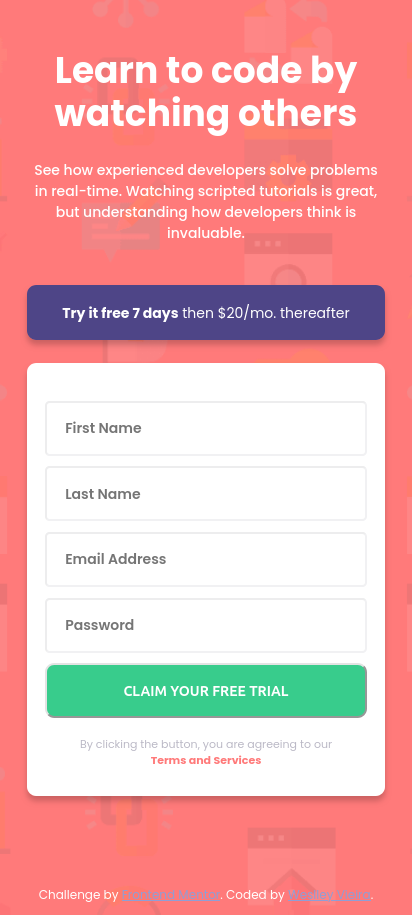
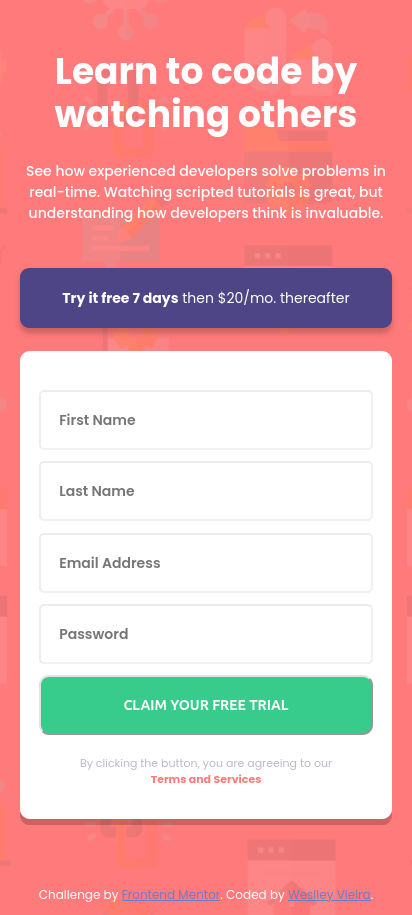
-fix responsive

diff --git a/styles.css b/styles.css
@@ -1,3 +1,8 @@
+@font-face {
+  font-family: "Poppins", "Fira Code";
+  src: url("./fonts/fa-solid-900.woff2") format("woff2");
+}
+
 body {
   font-family: "Poppins", "Fira Code", sans-serif;
   background-image: url("./images/bg-intro-desktop.png");
@@ -10,8 +15,7 @@ body {
   align-items: center;
   height: 100vh;
   margin: 0;
-  padding-left: 30vh;
-  padding-right: 30vh;
+  padding: 0;
   font-size: 20px;
 }
 
@@ -23,20 +27,20 @@ main {
 
 .content {
   color: white;
-  padding-right: 5vh;
-  width: 55vh;
+  padding-right: 5%;
+  width: 40%;
   font-size: 25px;
   line-height: 1.2;
 }
 
 .content p {
-  font-size: 15px;
+  font-size: 16px;
   line-height: 1.5;
   font-weight: 500;
 }
 
 .form {
-  width: 60vh;
+  width: 40%;
 }
 
 .form .ad {
@@ -45,7 +49,7 @@ main {
   display: flex;
   justify-content: center;
   align-items: center;
-  height: 6vh;
+  height: 60px;
   border-radius: 1vh;
   box-shadow: 0 5px 5px rgba(0, 0, 0, 0.2);
   color: white;
@@ -54,28 +58,28 @@ main {
 
 .form form {
   background-color: white;
-  height: 45vh;
-  padding: 6% 0 0 0;
+  height: 45%;
+  padding: 5% 0 0 0;
   display: flex;
   flex-direction: column;
   justify-content: center;
   align-items: center;
-  border-radius: 1vh;
-  box-shadow: 0 5px 5px rgba(0, 0, 0, 0.2);
+  border-radius: 10px;
+  box-shadow: 0 6px 0 rgba(0, 0, 0, 0.2);
   transition: height 0.3s ease;
 }
 
 .form form.invalid {
-  height: 55vh;
-  padding: 2% 0;
+  height: 55%;
+  padding: 5% 0 1%;
 }
 
 .form input {
   font-family: "Poppins", "Fira Code", sans-serif;
   width: 85%;
-  height: 6vh;
+  height: 60px;
   padding-left: 5%;
-  border-radius: 0.5vh;
+  border-radius: 5px;
   border-color: hsl(249, 10%, 50%, 0.1);
   font-size: 14px;
   font-weight: 600;
@@ -91,7 +95,7 @@ main {
 
 .form .error-message {
   align-self: end;
-  margin: 0.5vh 5vh 1.5vh 0;
+  margin: 5px 50px 15px 0;
   color: hsl(0, 100%, 74%);
   font-size: 10px;
   font-style: italic;
@@ -108,8 +112,8 @@ main {
 
 .form button {
   width: 85%;
-  height: 6vh;
-  border-radius: 1vh;
+  height: 60px;
+  border-radius: 10px;
   font-size: 14px;
   color: white;
   background-color: hsl(154, 59%, 51%);
@@ -121,7 +125,7 @@ main {
 }
 
 .form p {
-  margin-top: 2vh;
+  margin-top: 20px;
   font-size: 11px;
   color: hsl(249, 10%, 75%);
 }
@@ -138,31 +142,32 @@ main {
 
 footer {
   position: fixed;
-  bottom: 0;
+  bottom: 10px;
   width: 100%;
 }
 
 .attribution {
-  font-size: 14px;
+  font-size: 12px;
   text-align: center;
   color: white;
 }
 
 .attribution a {
-  color: hsl(228, 45%, 70%);
+  color: hsl(228, 45%, 60%);
 }
 
 .attribution a:hover {
-  color: hsl(228, 45%, 50%);
+  color: hsl(228, 45%, 44%);
+  text-decoration: underline;
 }
 
-@media (max-width: 768px) {
+@media (max-width: 954px) or (max-height: 915px) {
   body {
     display: flex;
     flex-direction: column;
     align-items: center;
-    height: 100%;
-    padding: 0 3vh;
+    height: auto;
+    padding: 0 20px;
     background-image: url("./images/bg-intro-mobile.png");
   }
 
@@ -172,6 +177,7 @@ footer {
     align-items: center;
     width: 100%;
     margin-top: 7%;
+    z-index: 1;
   }
 
   .content {
@@ -187,26 +193,26 @@ footer {
 
   .form {
     width: 100%;
-    margin-bottom: 0vh;
+    margin-bottom: 0;
   }
 
   .form .ad {
     padding: 0;
-    margin-top: 3vh;
+    margin-top: 30px;
   }
 
   .form form {
-    height: 45vh;
+    height: 450px;
     width: 100%;
     text-align: center;
   }
 
   .form form.invalid {
-    height: 50vh;
+    height: 500px;
   }
 
   .form input {
-    height: 6vh;
+    height: 60px;
     width: 90%;
   }
 
@@ -219,10 +225,16 @@ footer {
   }
 
   .form p {
-    padding: 0 5vh;
+    padding: 0 50px;
   }
 
-  .attribution {
-    font-size: 12px;
+  footer {
+    bottom: 0;
+  }
+}
+
+@media (max-height: 760px) {
+  body {
+    padding-bottom: 10%;
   }
 }

diff --git a/index.html b/index.html
@@ -11,7 +11,7 @@
   <link
     href="https://fonts.googleapis.com/css2?family=Fira+Code:wght@300..700&family=Poppins:ital,wght@0,100;0,200;0,300;0,400;0,500;0,600;0,700;0,800;0,900;1,100;1,200;1,300;1,400;1,500;1,600;1,700;1,800;1,900&display=swap"
     rel="stylesheet">
-  <title>Frontend Mentor | Intro component with sign up form</title>
+  <title>Intro component with sign up form</title>
   <link rel="stylesheet" href="./styles.css">
 </head>
 
